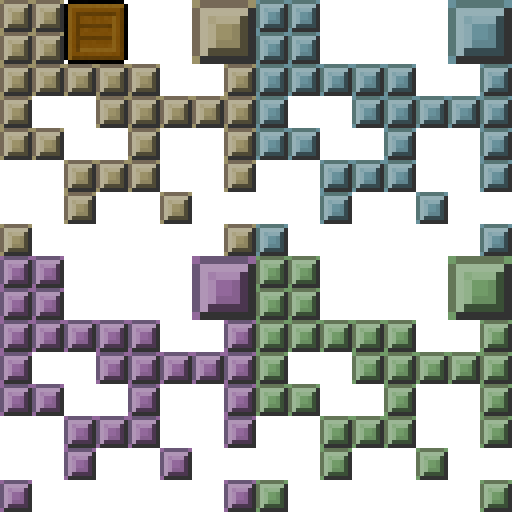
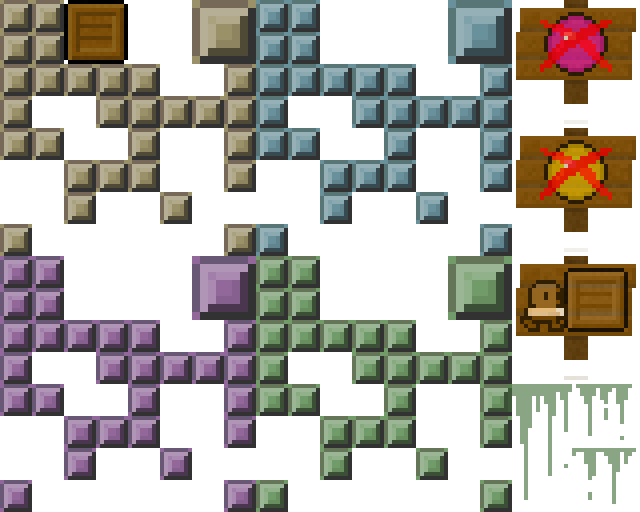
implement crate only maps with no player bubbeles

diff --git a/Demo/src/Server.cpp b/Demo/src/Server.cpp
@@ -867,22 +867,24 @@ void GameServer::loadMap()
             entity.getComponent<CollisionComponent>().setCollisionMaskBits(CollisionFlags::Bubble | CollisionFlags::MagicHat);
         }
 
-        //check if map has a round time associated with it
-        const auto& properties = map.getProperties();
-        auto result = std::find_if(properties.begin(), properties.end(),
-            [](const tmx::Property& property)
-        {
-            return xy::Util::String::toLower(property.getName()) == "round_time";
-        });
 
-        if (result != properties.end())
+        //check for any map properties
+        m_roundTimeout = defaultRoundTime;
+        bool bubblesEnabled = true;
+        const auto& properties = map.getProperties();
+        for (const auto& prop : properties)
         {
-            m_roundTimeout = result->getFloatValue();
+            auto propName = xy::Util::String::toLower(prop.getName());
+            if (propName == "round_time")
+            {
+                m_roundTimeout = prop.getFloatValue();
+            }
+            else if (propName == "use_bubbles")
+            {
+                bubblesEnabled = prop.getBoolValue();
+            }
         }
-        else
-        {
-            m_roundTimeout = defaultRoundTime;
-        }
+        m_scene.getSystem<BubbleSystem>().setEnabled(bubblesEnabled);
 
         //enable bonuses if there are 4 teleports
         if (teleportCount == 4)
@@ -1097,7 +1099,7 @@ void GameServer::spawnCrate(sf::Vector2f position, sf::Uint8 flags)
 
     entity.addComponent<Crate>().explosive = (flags & Crate::Explosive);
     entity.getComponent<Crate>().respawn = (flags & Crate::Respawn);
-    entity.getComponent<Crate>().spawnPosition = position + CrateOrigin;
+    entity.getComponent<Crate>().spawnPosition = position;// +CrateOrigin;
 
     entity.addComponent<CollisionComponent>().addHitbox(CrateBounds, CollisionType::Crate);
     entity.getComponent<CollisionComponent>().addHitbox(CrateFoot, CollisionType::Foot);

diff --git a/Demo/src/PowerupSystem.cpp b/Demo/src/PowerupSystem.cpp
@@ -268,7 +268,6 @@ void PowerupSystem::defaultCollision(xy::Entity entity, float)
                 break;
             case CollisionType::Platform:
             case CollisionType::Solid:
-            case CollisionType::Crate:
                 if (powerup.state == Powerup::State::Idle)
                 {
                     tx.move(man.normal * man.penetration);
@@ -284,12 +283,29 @@ void PowerupSystem::defaultCollision(xy::Entity entity, float)
                         powerup.velocity.x = 0.f;
                     }
                 }
-                else if (powerup.state == Powerup::State::Active
-                    && man.otherType == CollisionType::Crate)
+
+                break;
+            case CollisionType::Crate:
+                if (powerup.state == Powerup::State::Active)
                 {
                     powerup.state = Powerup::State::Dying;
                     powerup.lifetime = 1.f;
                     entity.getComponent<AnimationController>().nextAnimation = AnimationController::Die;
+                }
+                else
+                {
+                    tx.move(man.normal * man.penetration);
+
+                    if (man.normal.y != 0 && powerup.velocity.x == 0)
+                    {
+                        powerup.velocity.x =
+                            (xy::Util::Random::value(0, 1) == 0) ?
+                            -BubbleVerticalVelocity : BubbleVerticalVelocity;
+                    }
+                    else if (man.normal.x != 0)
+                    {
+                        powerup.velocity.x = 0.f;
+                    }
                 }
                 break;
             case CollisionType::NPC:

diff --git a/Demo/src/CrateSystem.cpp b/Demo/src/CrateSystem.cpp
@@ -259,6 +259,10 @@ void CrateSystem::airCollision(xy::Entity entity)
                     }
                     return;
                 }
+                else if (manifolds[j].otherType == CollisionType::Powerup)
+                {
+                    //ignore
+                }
                 else
                 {
                     entity.getComponent<xy::Transform>().move(manifolds[j].normal * manifolds[j].penetration);
@@ -341,6 +345,8 @@ void CrateSystem::spawn(Crate crate)
     crate.velocity = {};
     crate.lastOwner = 3;
     crate.lethal = false;
+    crate.state = Crate::Falling;
+    crate.groundContact = false;
     entity.addComponent<Crate>() = crate;
 
     entity.addComponent<CollisionComponent>().addHitbox(CrateBounds, CollisionType::Crate);

diff --git a/Demo/src/NPCSystem.cpp b/Demo/src/NPCSystem.cpp
@@ -813,9 +813,10 @@ void NPCSystem::collisionNormal(xy::Entity entity)
 
                     if (manifold.otherEntity.hasComponent<Crate>())
                     {
-                        if (manifold.penetration > (ClocksyBounds.width / 2.f))
-                        {
-                            const auto& crate = manifold.otherEntity.getComponent<Crate>();
+                        const auto& crate = manifold.otherEntity.getComponent<Crate>();
+                        if (manifold.penetration > (ClocksyBounds.width / 2.f)
+                            || crate.lethal)
+                        {                         
                             despawn(entity, crate.lastOwner, NpcEvent::Crate);
                         }
                     }

diff --git a/Demo/src/BubbleSystem.cpp b/Demo/src/BubbleSystem.cpp
@@ -49,7 +49,8 @@ namespace
 
 BubbleSystem::BubbleSystem(xy::MessageBus& mb, xy::NetHost& host)
     : xy::System(mb, typeid(BubbleSystem)),
-    m_host      (host)
+    m_host      (host),
+    m_enabled   (true)
 {
     requireComponent<xy::Transform>();
     requireComponent<Actor>();
@@ -63,7 +64,7 @@ void BubbleSystem::handleMessage(const xy::Message& msg)
     if (msg.id == MessageID::PlayerMessage)
     {
         const auto& data = msg.getData<PlayerEvent>();
-        if (data.type == PlayerEvent::FiredWeapon)
+        if (data.type == PlayerEvent::FiredWeapon && m_enabled)
         {
             const auto& player = data.entity.getComponent<Player>();
             auto pos = data.entity.getComponent<xy::Transform>().getPosition();

diff --git a/Demo/src/ClientServerShared.hpp b/Demo/src/ClientServerShared.hpp
@@ -122,8 +122,8 @@ static const sf::FloatRect CrateBounds(2.f, 2.f, 60.f, 62.f);
 static const sf::FloatRect CrateFoot = ClocksyFoot;
 static const sf::Vector2f CrateOrigin(32.f, 32.f);
 
-static const sf::FloatRect ExplosionBounds(0.f, 0.f, 192.f, 192.f);
-static const sf::Vector2f ExplosionOrigin(96.f, 96.f);
+static const sf::FloatRect ExplosionBounds(0.f, 0.f, 128.f, 128.f);
+static const sf::Vector2f ExplosionOrigin(64.f, 64.f);
 
 static constexpr float TeleportDistance = 886.f;
 static constexpr float Gravity = 2200.f;

diff --git a/Demo/src/BubbleSystem.hpp b/Demo/src/BubbleSystem.hpp
@@ -59,8 +59,12 @@ public:
     void handleMessage(const xy::Message&) override;
     void process(float) override;
 
+    void setEnabled(bool enabled) { m_enabled = enabled; }
+
 private:
     xy::NetHost& m_host;
+
+    bool m_enabled;
 
     void doCollision(xy::Entity);
     void killBubble(xy::Entity);
